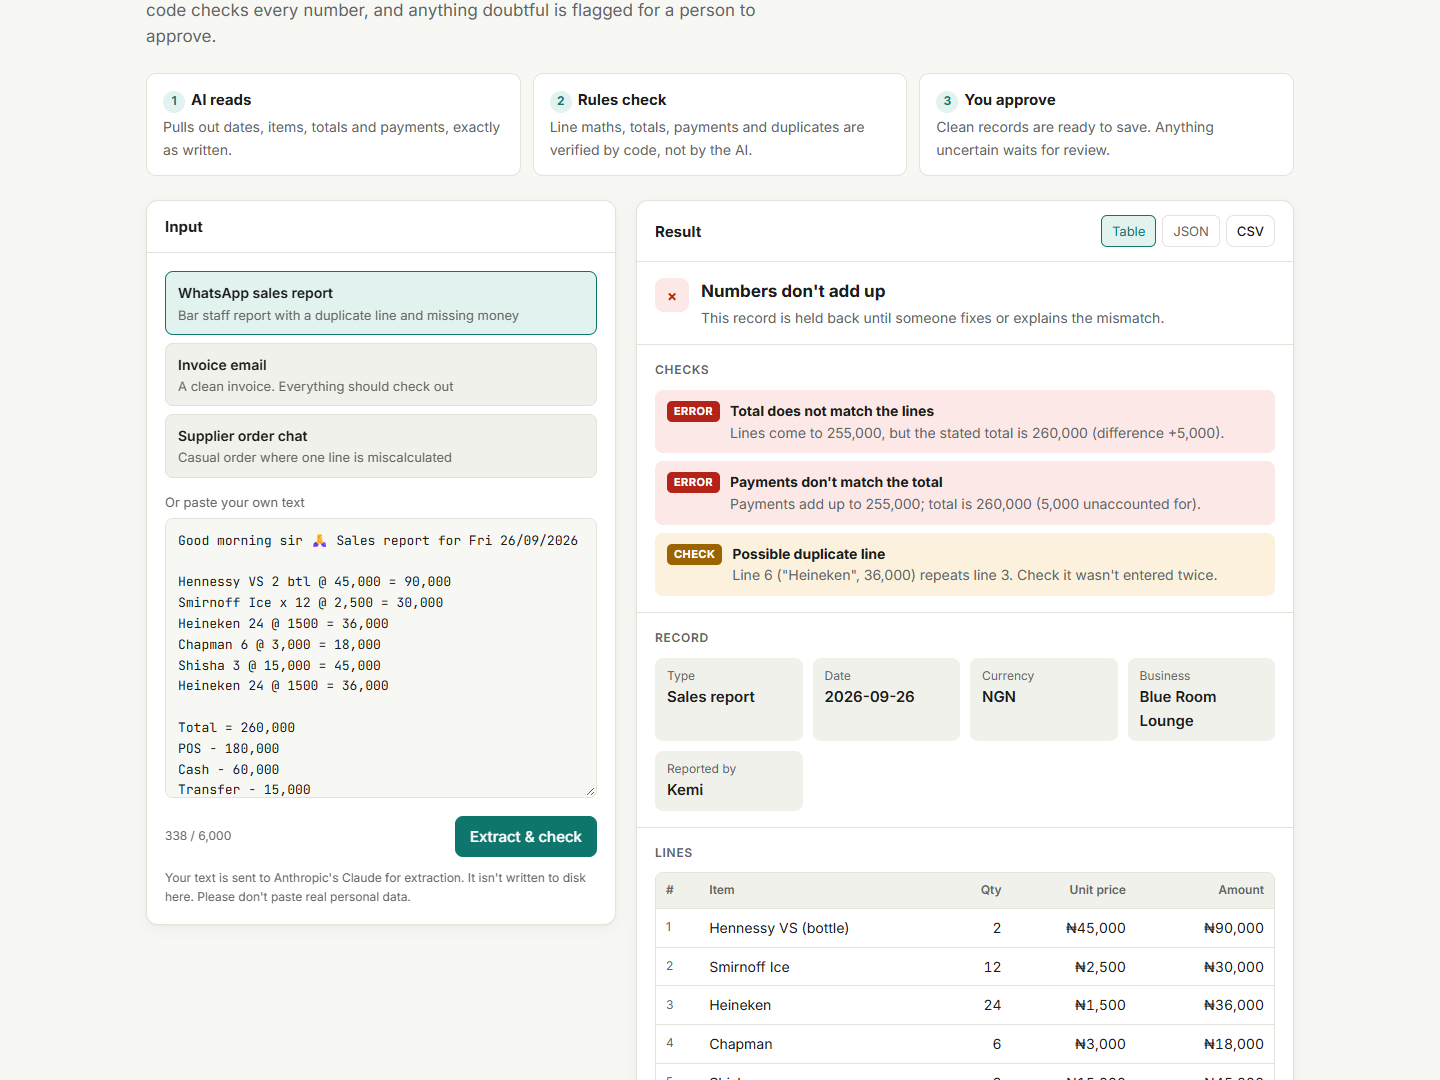
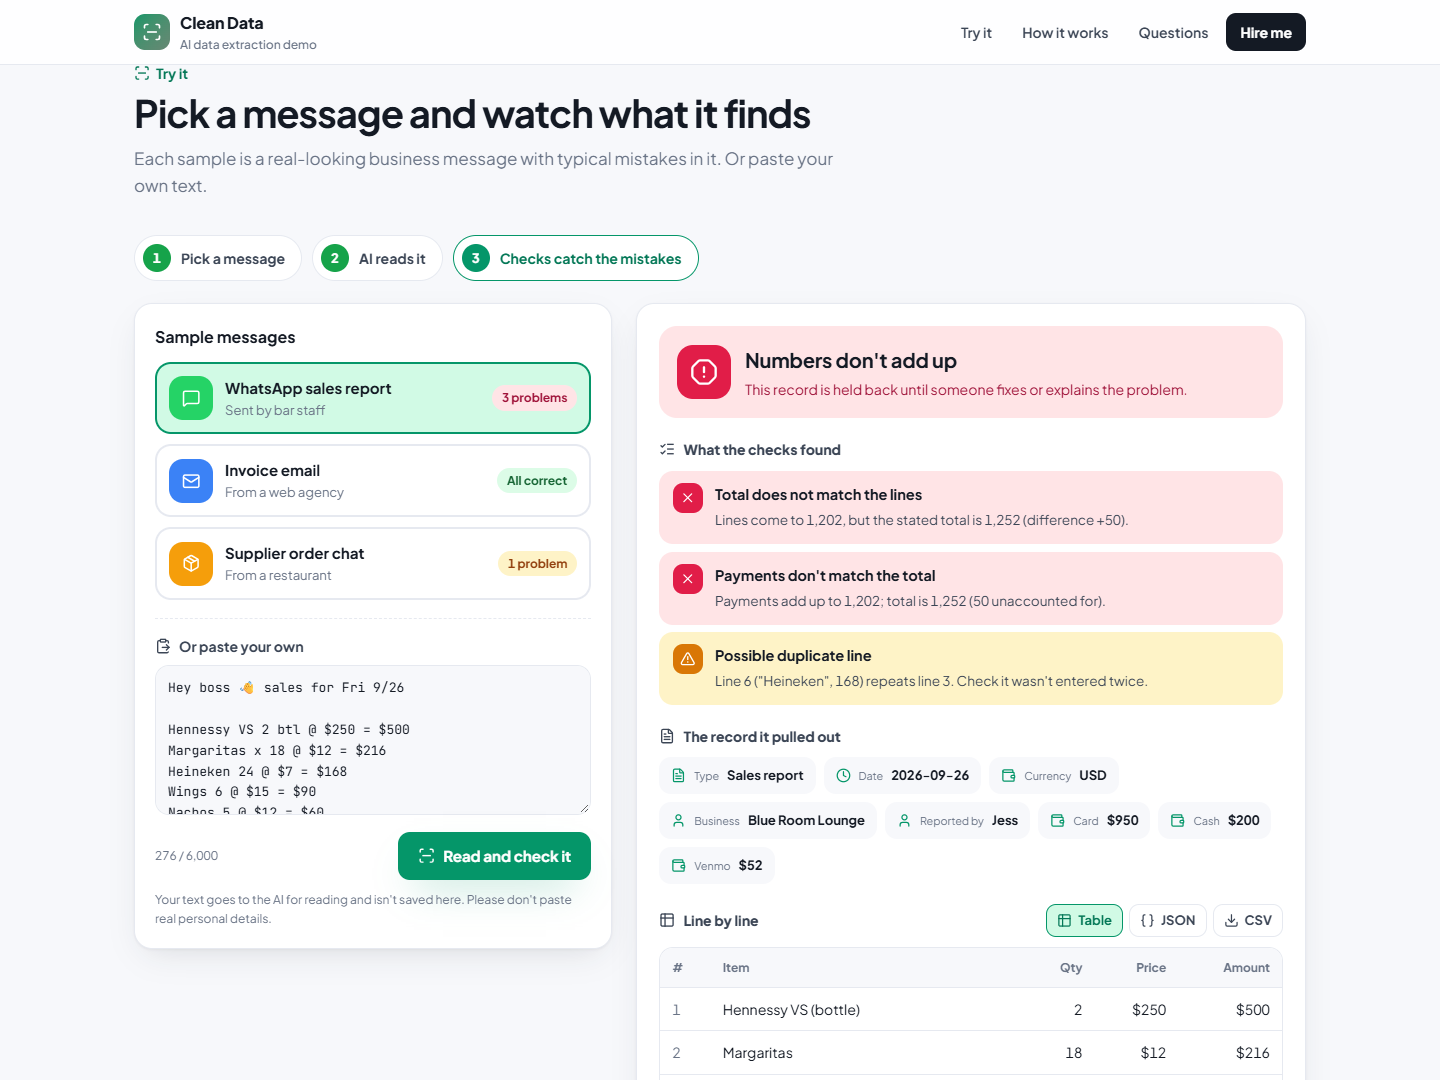
Use US/European sample names and dollars; refresh screenshots

diff --git a/public/index.html b/public/index.html
@@ -9,8 +9,8 @@
 <link rel="preconnect" href="https://fonts.googleapis.com">
 <link rel="preconnect" href="https://fonts.gstatic.com" crossorigin>
 <link href="https://fonts.googleapis.com/css2?family=Plus+Jakarta+Sans:wght@400;500;600;700;800&family=JetBrains+Mono:wght@400;500&display=swap" rel="stylesheet">
-<link rel="stylesheet" href="kit.css?v=7">
-<link rel="stylesheet" href="app.css?v=7">
+<link rel="stylesheet" href="kit.css?v=8">
+<link rel="stylesheet" href="app.css?v=8">
 </head>
 <body>
 <nav class="nav">
@@ -43,17 +43,17 @@
     <div class="hero-art" aria-hidden="true">
       <div class="ha-msg">
         <div class="ha-head"><span class="wa"><i data-icon="message-square"></i></span><b>Bar staff group</b><small>8:42 AM</small></div>
-        <p>Sales report Fri 🙏<br>Hennessy 2 @ 45k = 90,000<br>Heineken 24 @ 1500 = 36,000<br>Shisha 3 @ 15k = 45,000<br><span class="dup">Heineken 24 @ 1500 = 36,000</span><br><b>Total = 212,000</b><br>POS 150k, Cash 57k</p>
+        <p>Sales for Fri 👋<br>Hennessy 2 @ $250 = $500<br>Heineken 24 @ $7 = $168<br>Nachos 5 @ $12 = $60<br><span class="dup">Heineken 24 @ $7 = $168</span><br><b>Total = $946</b><br>Card $700, Cash $196</p>
         <div class="scan"></div>
       </div>
       <div class="ha-arrow"><i data-icon="arrow-right"></i></div>
       <div class="ha-table">
         <div class="ht-row h"><span>Item</span><span>Amount</span></div>
-        <div class="ht-row r1"><span>Hennessy × 2</span><span>₦90,000</span></div>
-        <div class="ht-row r2"><span>Heineken × 24</span><span>₦36,000</span></div>
-        <div class="ht-row r3"><span>Shisha × 3</span><span>₦45,000</span></div>
+        <div class="ht-row r1"><span>Hennessy × 2</span><span>$500</span></div>
+        <div class="ht-row r2"><span>Heineken × 24</span><span>$168</span></div>
+        <div class="ht-row r3"><span>Nachos × 5</span><span>$60</span></div>
         <div class="ht-row r4 bad"><span>Heineken × 24</span><span class="flag">Twice?</span></div>
-        <div class="ht-alert"><i data-icon="alert-octagon"></i>₦5,000 missing</div>
+        <div class="ht-alert"><i data-icon="alert-octagon"></i>$50 missing</div>
       </div>
     </div>
   </div>
@@ -147,6 +147,6 @@
 
 <footer class="foot"><div class="wrap foot-row"><span>Demo by Frank A., AI integration engineer. The sample businesses are fictional.</span><a href="https://github.com/madassdev/ai-data-extraction" target="_blank" rel="noopener">Source code on GitHub</a></div></footer>
 
-<script src="app.js?v=7" type="module"></script>
+<script src="app.js?v=8" type="module"></script>
 </body>
 </html>

diff --git a/public/app.js b/public/app.js
@@ -1,4 +1,4 @@
-import { $, $$, esc, sleep, loadIcons, hydrateIcons, icon, toast, Guide, reveal, solveChallenge, postJson, reducedMotion } from './kit.js?v=7';
+import { $, $$, esc, sleep, loadIcons, hydrateIcons, icon, toast, Guide, reveal, solveChallenge, postJson, reducedMotion } from './kit.js?v=8';
 
 const MAX = 6000;
 const SAMPLE_META = {

diff --git a/README.md b/README.md
@@ -18,7 +18,7 @@ LLMs are good at reading messy text and bad at being trusted with arithmetic. So
 
 Each record comes out as **ready**, **needs review** or **blocked**.
 
-![Blocked vs ready](docs/blocked-vs-ready.png)
+![A clean invoice that passes every check](docs/ready.png)
 
 ## Stack
 
